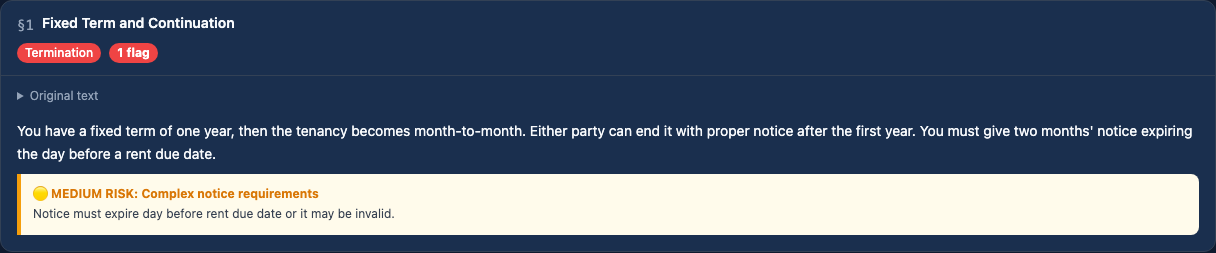
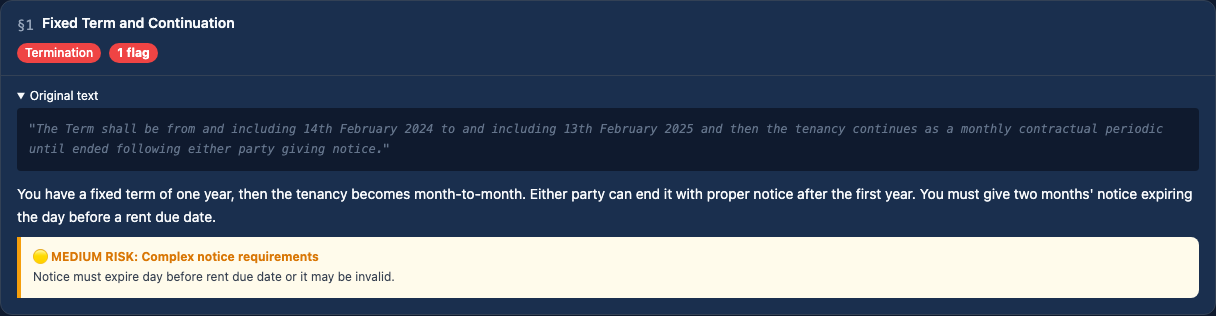
Trim Actions gallery, re-capture section close-up with Original text open
Removed the Action Bar, email-error ("Shown as-is"), and empty-form
Validation screenshots along with their now-orphaned files — the
"Report downloaded" entry (already in the gallery) covers the
post-action confirmation instead of duplicating it.

Re-ran the same real analysis once more just to re-capture the section
close-up with its "Original text" <details> disclosure expanded, so it
now shows the actual excerpt alongside the plain-English translation
and risk flag, not just the collapsed summary toggle.

diff --git a/index.html b/index.html
@@ -1133,13 +1133,9 @@
 </div>
 
 <div class="gallery-group">
-  <h3>Actions — PDF, email, errors <span class="gnum">09–12</span></h3>
-  <p class="gdesc">What happens after analysis: a branded PDF report, an email-delivery attempt (shown honestly, including where it failed), and the form's own input validation.</p>
+  <h3>Actions — PDF &amp; email <span class="gnum">10–11</span></h3>
+  <p class="gdesc">What happens after analysis: an email-delivery attempt and a real PDF report download.</p>
   <div class="gallery-grid">
-    <div class="shot" data-src="screenshots/legalclear/09-action-bar.png" data-cap="Action Bar — all three actions enabled post-completion">
-      <div class="thumb-wrap contain-strip"><img src="screenshots/legalclear/09-action-bar.png" loading="lazy" alt="Action bar with download, email, new document buttons"/></div>
-      <div class="cap"><b>Action Bar</b>Download PDF · Send via Email · New Document</div>
-    </div>
     <div class="shot" data-src="screenshots/legalclear/10a-email-modal-empty.png" data-cap="Send via Email modal">
       <div class="thumb-wrap"><img src="screenshots/legalclear/10a-email-modal-empty.png" loading="lazy" alt="Email modal"/></div>
       <div class="cap"><b>Send Translation Report</b>Email delivery modal</div>
@@ -1148,17 +1144,9 @@
       <div class="thumb-wrap"><img src="screenshots/legalclear/10b-email-modal-filled.png" loading="lazy" alt="Email modal with an address filled in"/></div>
       <div class="cap"><b>Address entered</b>Ready to send, before submitting</div>
     </div>
-    <div class="shot" data-src="screenshots/legalclear/10c-email-send-result.png" data-cap="Email send result — genuine error, shown honestly">
-      <div class="thumb-wrap"><img src="screenshots/legalclear/10c-email-send-result.png" loading="lazy" alt="Email send error toast"/></div>
-      <div class="cap"><b>Shown as-is</b>A real send attempt against production SendGrid — real error, real toast</div>
-    </div>
-    <div class="shot" data-src="screenshots/legalclear/11a-after-pdf-download.png" data-cap="After downloading the PDF">
+    <div class="shot" data-src="screenshots/legalclear/11a-after-pdf-download.png" data-cap="Report downloaded">
       <div class="thumb-wrap"><img src="screenshots/legalclear/11a-after-pdf-download.png" loading="lazy" alt="Page state right after the PDF download completes"/></div>
-      <div class="cap"><b>PDF downloaded</b>Success toast after a real Download PDF click</div>
-    </div>
-    <div class="shot" data-src="screenshots/legalclear/12-validation-error-state.png" data-cap="Empty-form validation">
-      <div class="thumb-wrap"><img src="screenshots/legalclear/12-validation-error-state.png" loading="lazy" alt="Form validation error state"/></div>
-      <div class="cap"><b>Validation</b>Submitting with no title or document text</div>
+      <div class="cap"><b>Report downloaded</b>Success toast after a real Download PDF click</div>
     </div>
   </div>
 </div>
